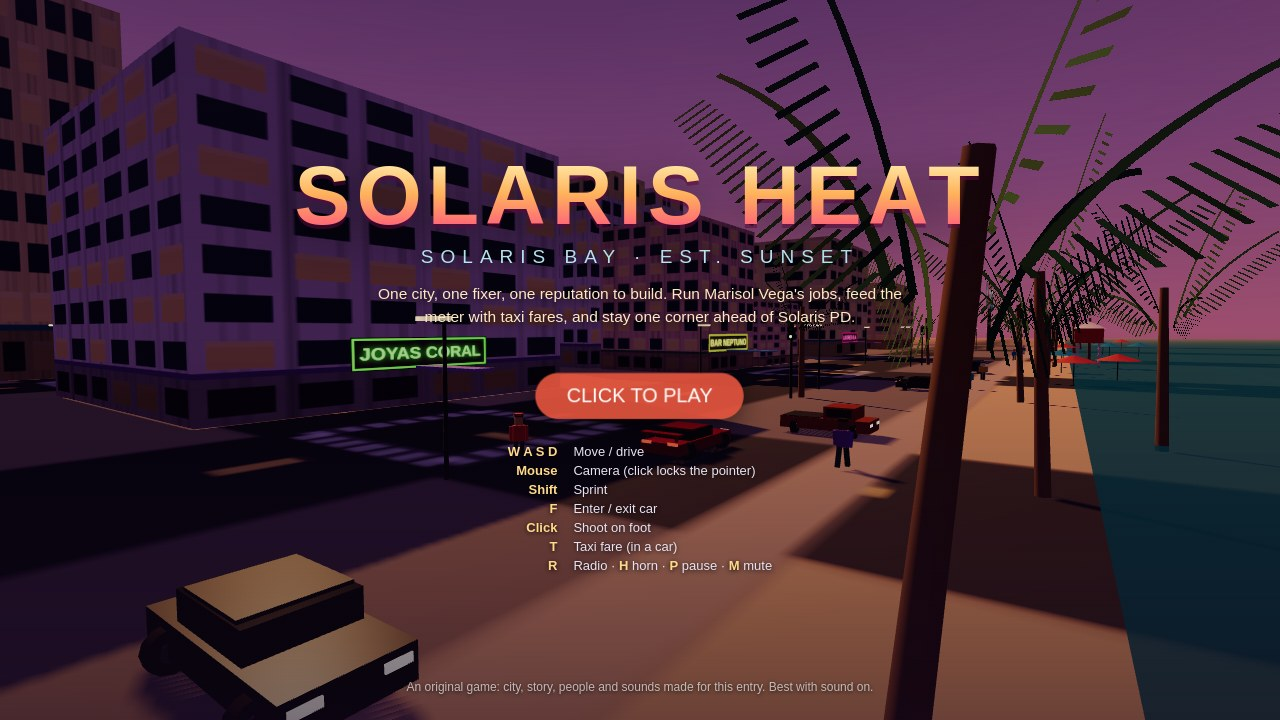
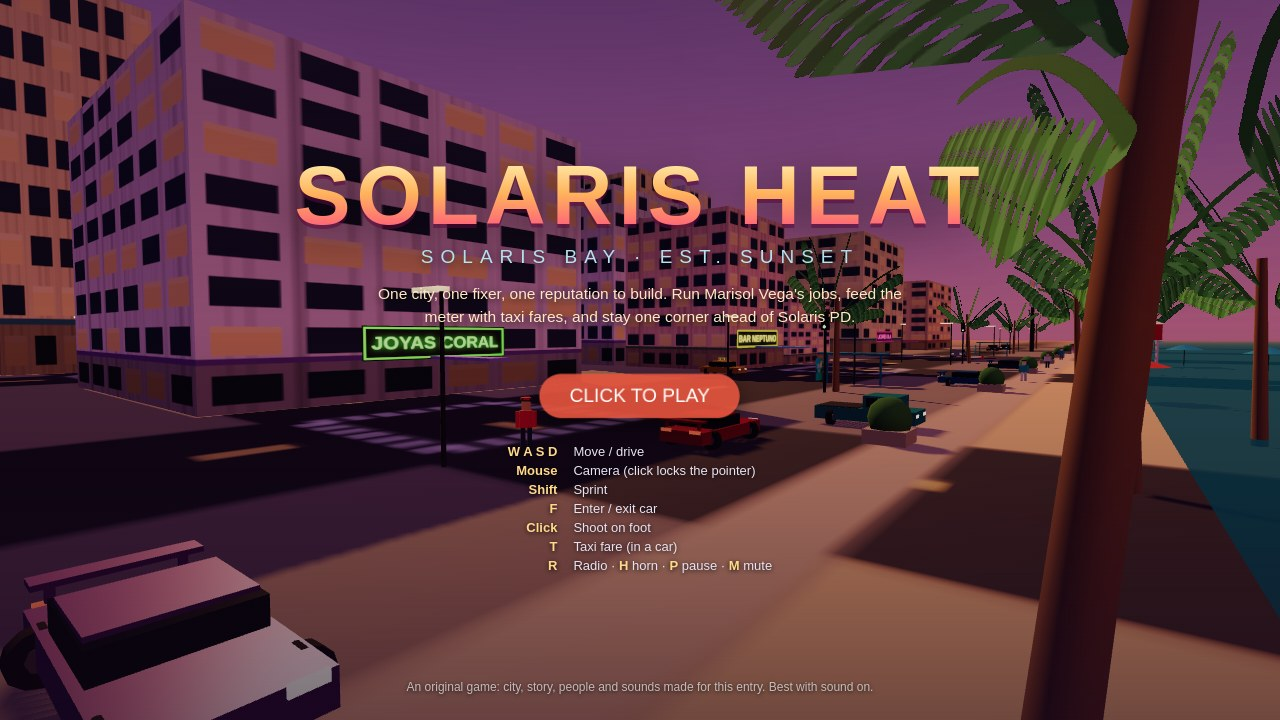
Pass 2 polish: fuller palms, warmer light, tighter shot staging
- textures: palm fronds redrawn fuller and sunlit (they read as dark
  scratches before); hud: objective lines render their <b> highlights.
- game: warm bounce fill light from the bay, hemisphere and exposure up,
  so shadowed faces stay readable at golden hour.
- police: searchlight narrowed and dimmed so it pools instead of blowing
  out whole facades.
- city: hydrants, bus shelters with ad panels, promenade planters.
- people: some pedestrians now stroll the beach itself.
- vehicles: traffic cruises a touch faster; lane comment corrected.
- shots: chase pursuit re-formed behind the car before the frame; the
  busted arrest reframed close (banner, officers, both units visible);
  title camera lowered. All four screenshots re-captured.

diff --git a/game/src/shots.js b/game/src/shots.js
@@ -40,7 +40,7 @@ function stageTitle(game) {
   game.placeHeroCar(168, 30, Math.PI); // facing south along the promenade
   game.teleportPlayer(163.5, 35.5, -2.2);
   runSteps(game, 36, null);
-  game.setShotCamera([181, 5.2, 52], [150, 2.5, 8]);
+  game.setShotCamera([180, 4.2, 50], [152, 2.2, 14]);
   game.showTitleScreen();
 }
 
@@ -50,15 +50,36 @@ function stageChase(game) {
   game.enterCarInstant(car);
   game.setWanted(4, true);
   // Two interceptors tucked in behind, one alongside the beach lane.
-  game.spawnShotInterceptor(78, -3.4, Math.PI / 2);
-  game.spawnShotInterceptor(84, 3.6, Math.PI / 2);
-  game.spawnShotInterceptor(66, -3.4, Math.PI / 2);
+  const units = [
+    game.spawnShotInterceptor(78, -3.4, Math.PI / 2),
+    game.spawnShotInterceptor(84, 3.6, Math.PI / 2),
+    game.spawnShotInterceptor(66, -3.4, Math.PI / 2),
+  ];
   game.hud.setObjective('<b>Lose the heat</b> — break line of sight');
   runSteps(game, 52, (i) => {
     game.scriptInput = { forward: true, steer: i < 8 ? 0.12 : 0 };
   });
+  // The pursuit scatters over a long run; re-form it tight behind the car so
+  // the frame reads as one chase, then let it settle for a few steps.
+  const p = car.mesh.position;
+  const h = car.heading;
+  const fx = Math.sin(h);
+  const fz = Math.cos(h);
+  const rx = Math.cos(h);
+  const rz = -Math.sin(h);
+  const formation = [[-14, -3.2], [-21, 3.4], [-8.5, 5.4]];
+  units.forEach((unit, i) => {
+    const [back, side] = formation[i];
+    unit.mesh.position.set(p.x + fx * back + rx * side, 0, p.z + fz * back + rz * side);
+    unit.heading = h;
+    unit.mesh.rotation.y = h;
+    unit.speed = car.speed;
+  });
+  runSteps(game, 5, () => {
+    game.scriptInput = { forward: true, steer: 0 };
+  });
   game.scriptInput = null;
-  game.setShotCameraBehindCar(11, 3.4, 0.35);
+  game.setShotCameraBehindCar(11.5, 3.6, 0.3);
 }
 
 /** Meeting the fixer: beacon, objective, minimap marker, the garage. */
@@ -73,20 +94,20 @@ function stageMission(game) {
 
 /** Caught: hands up, two units angled in, officers covering. */
 function stageBusted(game) {
-  game.teleportPlayer(2, 30, 0.4);
+  game.teleportPlayer(2, 44, 0.5);
   poseHandsUp(game.playerMesh);
   game.setWanted(3, true);
-  const copA = game.spawnShotInterceptor(7.5, 38, -2.5);
-  const copB = game.spawnShotInterceptor(-6, 22.5, 0.9);
-  const officerA = game.spawnOfficer(4.6, 33.5, -2.2);
-  const officerB = game.spawnOfficer(-3.4, 26.5, 0.75);
+  const copA = game.spawnShotInterceptor(8.5, 51, -2.35);
+  const copB = game.spawnShotInterceptor(-5.5, 36.5, 0.85);
+  const officerA = game.spawnOfficer(5.6, 47.5, -2.1);
+  const officerB = game.spawnOfficer(-2.2, 40.8, 0.7);
   poseAim(officerA);
   poseAim(officerB);
   game.police.bustedMeter = 1;
   game.hud.banner('BUSTED', 'Solaris PD got their collar');
   runSteps(game, 24, null);
   // The pursuit steps nudged the units; put the arrest back exactly as staged.
-  for (const [unit, x, z, heading] of [[copA, 7.5, 38, -2.5], [copB, -6, 22.5, 0.9]]) {
+  for (const [unit, x, z, heading] of [[copA, 8.5, 51, -2.35], [copB, -5.5, 36.5, 0.85]]) {
     unit.mesh.position.set(x, 0, z);
     unit.mesh.rotation.y = heading;
     unit.heading = heading;
@@ -94,5 +115,5 @@ function stageBusted(game) {
   }
   game.police.bustedMeter = 1;
   poseHandsUp(game.playerMesh);
-  game.setShotCamera([10.5, 3.4, 41], [0, 1.3, 30]);
+  game.setShotCamera([6.5, 2.6, 57.5], [1.5, 1.2, 43.5]);
 }

diff --git a/game/src/city.js b/game/src/city.js
@@ -356,6 +356,56 @@ export function buildCity(scene, rng) {
   scene.add(lampPoles);
   scene.add(lampHeads);
 
+  // ---- street furniture: hydrants, bus shelters, promenade planters -------
+  const hydrantMat = new THREE.MeshStandardMaterial({ color: 0xd23b2e, roughness: 0.55 });
+  const hydrantGeo = new THREE.CylinderGeometry(0.16, 0.2, 0.62, 8);
+  for (const rx of LAYOUT.roadXs) {
+    for (const rz of LAYOUT.roadZs) {
+      if (!rng.chance(0.4)) continue;
+      const hydrant = new THREE.Mesh(hydrantGeo, hydrantMat);
+      hydrant.position.set(rx + 8.3, 0.31, rz - 8.3);
+      hydrant.castShadow = true;
+      scene.add(hydrant);
+    }
+  }
+  const shelterMat = new THREE.MeshStandardMaterial({ color: 0x2a9db5, roughness: 0.6, metalness: 0.3 });
+  for (const sz of [-78, 0, 78]) {
+    const shelter = new THREE.Group();
+    for (const px of [-2.2, 2.2]) {
+      const post = new THREE.Mesh(new THREE.BoxGeometry(0.14, 2.5, 0.14), shelterMat);
+      post.position.set(px, 1.25, 0);
+      shelter.add(post);
+    }
+    const roofSlab = new THREE.Mesh(new THREE.BoxGeometry(5.4, 0.14, 1.7), shelterMat);
+    roofSlab.position.y = 2.55;
+    roofSlab.castShadow = true;
+    shelter.add(roofSlab);
+    const bench = new THREE.Mesh(new THREE.BoxGeometry(4.4, 0.12, 0.5), darkMat);
+    bench.position.set(0, 0.62, -0.3);
+    shelter.add(bench);
+    const adPanel = new THREE.Mesh(
+      new THREE.PlaneGeometry(1.5, 1.9),
+      new THREE.MeshStandardMaterial({ map: billboardTexture(rng, 'BUS SOL', 'Ride the bay', 190, 150), roughness: 0.7 }),
+    );
+    adPanel.position.set(-2.9, 1.15, 0);
+    adPanel.rotation.y = Math.PI / 2;
+    shelter.add(adPanel);
+    shelter.position.set(163.5, 0, sz);
+    scene.add(shelter);
+    addCollider(163.5, sz, 1.4, 5.4, 2.5);
+  }
+  const planterMat = new THREE.MeshStandardMaterial({ color: 0xb8a88e, roughness: 0.95 });
+  const shrubMat = new THREE.MeshStandardMaterial({ color: 0x3e7d3a, roughness: 1 });
+  for (let z = -156; z <= 156; z += 26) {
+    const planter = new THREE.Mesh(new THREE.BoxGeometry(1.6, 0.55, 1.6), planterMat);
+    planter.position.set(173.5, 0.28, z);
+    scene.add(planter);
+    const shrub = new THREE.Mesh(new THREE.SphereGeometry(0.85, 8, 6), shrubMat);
+    shrub.position.set(173.5, 0.95, z);
+    shrub.castShadow = true;
+    scene.add(shrub);
+  }
+
   // ---- traffic lights ------------------------------------------------------
   const heads = [];
   for (const rx of LAYOUT.roadXs) {

diff --git a/game/src/textures.js b/game/src/textures.js
@@ -221,27 +221,37 @@ export function groundTexture(layout) {
   return canvasTexture(canvas);
 }
 
-/** A palm frond sprite: feathered leaflets on a curved rib, alpha-tested. */
+/** A palm frond sprite: full, sunlit leaflets on a curved rib, alpha-tested. */
 export function frondTexture() {
   const [canvas, g] = makeCanvas(256, 256);
   g.clearRect(0, 0, 256, 256);
-  g.strokeStyle = '#2e6b34';
-  g.lineWidth = 5;
-  g.beginPath();
-  g.moveTo(8, 248);
-  g.quadraticCurveTo(90, 120, 244, 44);
-  g.stroke();
-  g.lineWidth = 3;
-  for (let i = 0; i < 22; i += 1) {
-    const t = i / 22;
-    const x = 8 + (244 - 8) * t;
-    const y = 248 - 204 * t + 30 * t * t;
-    g.strokeStyle = i % 2 ? '#35793c' : '#2a6330';
+  // Leaflets first, fanned wide and drooping, in two sunlit greens so the
+  // crown reads as foliage against the sky instead of dark scratches.
+  for (let i = 0; i < 30; i += 1) {
+    const t = i / 30;
+    const x = 6 + (246 - 6) * t;
+    const y = 250 - 208 * t + 34 * t * t;
+    g.strokeStyle = i % 3 === 0 ? '#5cb85f' : i % 3 === 1 ? '#43a047' : '#36823c';
+    g.lineWidth = 6.5;
+    g.lineCap = 'round';
     g.beginPath();
     g.moveTo(x, y);
-    g.lineTo(x + 12, y + 44 - t * 16);
+    g.quadraticCurveTo(x + 16, y + 26 - t * 10, x + 10, y + 62 - t * 26);
+    g.stroke();
+    // A shorter leaflet angled up, for fullness near the rib.
+    g.lineWidth = 5;
+    g.beginPath();
+    g.moveTo(x, y);
+    g.quadraticCurveTo(x + 22, y + 6, x + 30, y + 26 - t * 8);
     g.stroke();
   }
+  // The rib on top, so the leaflets hang from it.
+  g.strokeStyle = '#2f7a38';
+  g.lineWidth = 7;
+  g.beginPath();
+  g.moveTo(6, 250);
+  g.quadraticCurveTo(90, 118, 246, 42);
+  g.stroke();
   const texture = canvasTexture(canvas);
   texture.wrapS = THREE.ClampToEdgeWrapping;
   return texture;

diff --git a/game/src/game.js b/game/src/game.js
@@ -47,7 +47,7 @@ export class Game {
     this.renderer.shadowMap.enabled = true;
     this.renderer.shadowMap.type = THREE.PCFSoftShadowMap;
     this.renderer.toneMapping = THREE.ACESFilmicToneMapping;
-    this.renderer.toneMappingExposure = 1.12;
+    this.renderer.toneMappingExposure = 1.2;
     this.renderer.outputColorSpace = THREE.SRGBColorSpace;
     this.scene = new THREE.Scene();
     this.scene.fog = new THREE.Fog(0xdd7a52, 120, 460);
@@ -70,7 +70,13 @@ export class Game {
     this.sun.shadow.bias = -0.0006;
     this.scene.add(this.sun);
     this.scene.add(this.sun.target);
-    this.scene.add(new THREE.HemisphereLight(0xcf9fff, 0x8a5a3a, 0.6));
+    this.scene.add(new THREE.HemisphereLight(0xcf9fff, 0x8a5a3a, 0.75));
+    // Warm bounce off the bay: a soft shadowless fill from the east, so the
+    // faces turned away from the sunset stay readable instead of going black.
+    const bounce = new THREE.DirectionalLight(0xff9a6b, 0.55);
+    bounce.position.set(190, 90, 80);
+    this.scene.add(bounce);
+    this.scene.add(bounce.target);
 
     // ---- world ----
     this.city = buildCity(this.scene, this.rng);

diff --git a/game/src/vehicles.js b/game/src/vehicles.js
@@ -160,8 +160,9 @@ const DIRS = [
 
 /** The lane centre for travelling `dir` along the road whose centre is `centre`. */
 function laneCoord(dir, centre) {
-  // Right-hand traffic: the lane sits to the right of the direction of travel.
-  if (dir === 0) return centre + LANE; // heading +z: lane is at +x... verified below
+  // One lane each way: opposing directions always get opposite offsets, so
+  // the two streams pass without meeting, whichever side of the road it is.
+  if (dir === 0) return centre + LANE;
   if (dir === 2) return centre - LANE;
   if (dir === 1) return centre - LANE;
   return centre + LANE;
@@ -175,7 +176,7 @@ class TrafficCar {
     this.mesh = createCarMesh(rng, this.style, this.style === 'taxi' ? 0xf2b13d : rng.pick(CAR_COLORS));
     this.spec = CAR_SPECS[this.style];
     this.speed = 0;
-    this.cruise = rng.range(9, 14);
+    this.cruise = rng.range(10, 15);
     // Start on a random road, mid-block, heading along it.
     this.dir = rng.int(0, 3);
     const vertical = this.dir === 0 || this.dir === 2;

diff --git a/game/src/police.js b/game/src/police.js
@@ -137,7 +137,7 @@ export class Police {
       skid.position.set(sx, -1.25, 0);
       this.heli.add(skid);
     }
-    this.spot = new THREE.SpotLight(0xfff2cf, 0, 90, 0.32, 0.45, 0.6);
+    this.spot = new THREE.SpotLight(0xfff2cf, 0, 90, 0.27, 0.45, 0.6);
     this.spot.position.set(0, -1, 0);
     this.heli.add(this.spot);
     this.heli.add(this.spot.target);
@@ -236,7 +236,7 @@ export class Police {
       this.heli.rotation.y = Math.atan2(ctx.playerPos.x - this.heliPos.x, ctx.playerPos.z - this.heliPos.z);
       this.rotor.rotation.y += dt * 28;
       this.tailRotor.rotation.x += dt * 34;
-      this.spot.intensity = 900;
+      this.spot.intensity = 430;
       this.spot.target.position.set(ctx.playerPos.x - this.heliPos.x, -27, ctx.playerPos.z - this.heliPos.z);
       this.beam.material.opacity = 0.09 + Math.sin(ctx.t * 7) * 0.02;
     } else {

diff --git a/game/src/hud.js b/game/src/hud.js
@@ -141,7 +141,7 @@ export class HUD {
     g.lineWidth = 3;
     g.beginPath(); g.moveTo(pierX0, pierY); g.lineTo(pierX1, pierY); g.stroke();
 
-    // Mission / fare marker: a pulsing gold diamond.
+    // Mission / fare marker: a pulsing gold diamond in a white ring.
     if (view.marker) {
       const [mx, my] = this.mapPoint(view.marker.x, view.marker.z);
       const pulse = 4.5 + Math.sin(t * 5) * 1.4;
@@ -151,6 +151,9 @@ export class HUD {
       g.rotate(Math.PI / 4);
       g.fillRect(-pulse / 1.4, -pulse / 1.4, pulse * 1.4, pulse * 1.4);
       g.restore();
+      g.strokeStyle = 'rgba(255,255,255,0.9)';
+      g.lineWidth = 1.4;
+      g.beginPath(); g.arc(mx, my, pulse + 2.6, 0, Math.PI * 2); g.stroke();
     }
     // The fixer's garage: a violet dot.
     if (view.fixer) {

diff --git a/game/src/people.js b/game/src/people.js
@@ -129,8 +129,11 @@ class Pedestrian {
     this.phase = rng.range(0, 6);
     this.speed = rng.range(1.1, 1.7);
     // A loop to walk: a block's sidewalk ring, the promenade, or the pier.
-    const kind = rng.pick(['block', 'block', 'block', 'promenade', 'pier']);
-    if (kind === 'block') {
+    const kind = rng.pick(['block', 'block', 'block', 'promenade', 'pier', 'beach']);
+    if (kind === 'beach') {
+      const x = LAYOUT.beachX + rng.range(5, 14);
+      this.path = [[x, -158], [x, 158]];
+    } else if (kind === 'block') {
       const block = rng.pick(LAYOUT.blocks);
       const r = LAYOUT.blockSize / 2 + 1.6;
       this.path = [
